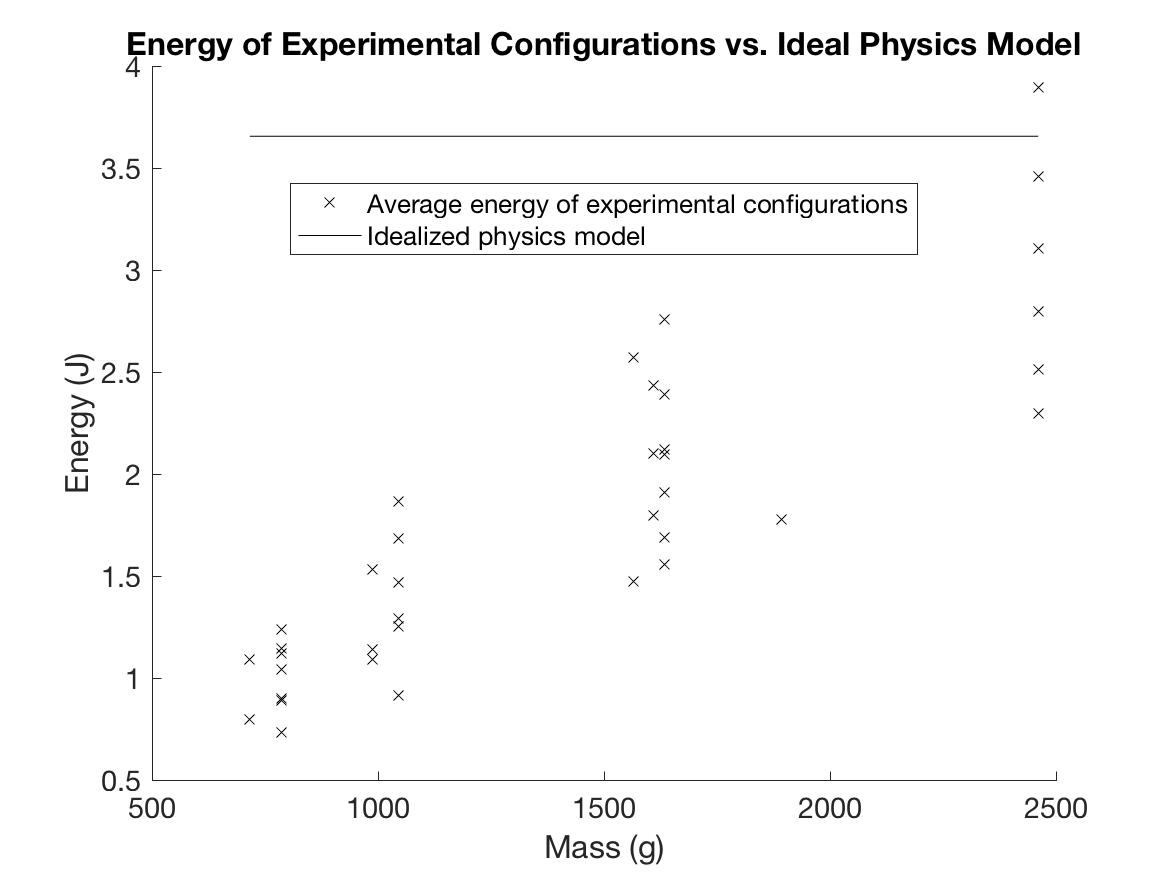
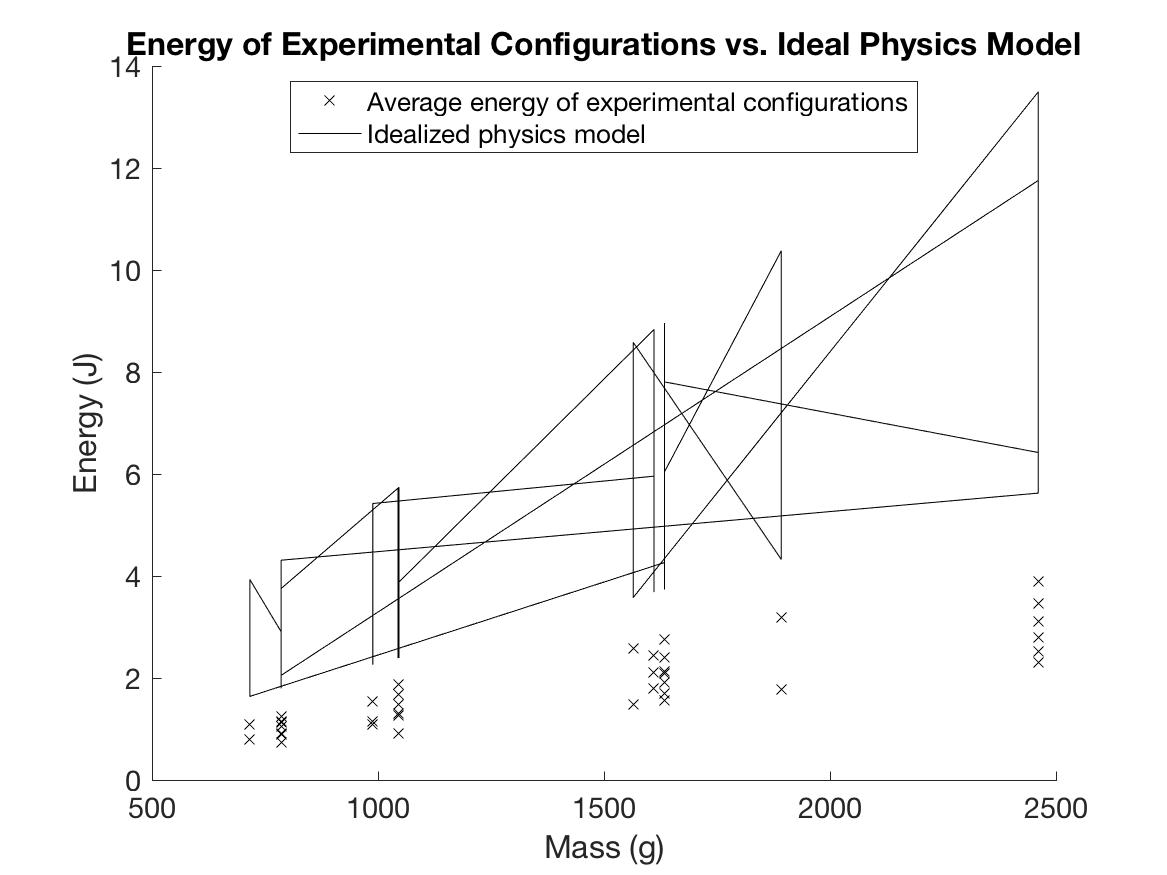
new linear regression function

diff --git a/RollCarCode/Data Processing Code/validateModelX.m b/RollCarCode/Data Processing Code/validateModelX.m
@@ -1,0 +1,33 @@
+function []=validateModelX(model_passes,model_x_max,model_a,model_b,model_t_end,tReal,xReal,m,rg,h)
+    passes=predict(model_passes,[m,rg,h]);
+    x_max=predict(model_x_max,[m,rg,h]);
+    
+    tTest=linspace(0,max(tReal),100);
+    xTest=[];
+    
+    if passes>=0
+        T=predict(model_t_end,[m,rg,h])/(passes+0.5);
+        f=1/T;
+        a1=predict(model_a{1},[m,rg,h]);
+        a2=predict(model_a{2},[m,rg,h]);
+        xTest=a1+((x_max/2)).*sin(2*pi*f*tTest+a2);
+    else
+        b1=predict(model_b{1},[m,rg,h]);
+        b2=predict(model_b{2},[m,rg,h]);
+        b3=predict(model_b{3},[m,rg,h]);
+        b4=predict(model_b{4},[m,rg,h]);
+        %{
+        b5=predict(model_b{5},[m,rg,h]);
+        b6=predict(model_b{6},[m,rg,h]);
+        %}
+        xTest=b1+b2*tTest+b3*tTest.^2+b4*tTest.^3;%+b4*tTest.^3+b5*tTest.^4+b6*tTest.^5;
+    end
+    
+    plot(tTest,xTest);
+    hold on;
+    plot(tReal,xReal);
+    xlabel('Time (s)');
+    ylabel('X Position (cm)');
+    legend('Simulation','Real');
+    hold off;
+end

diff --git a/RollCarCode/Data Processing Code/validateModelX_OBSOLETE.m b/RollCarCode/Data Processing Code/validateModelX_OBSOLETE.m
@@ -1,0 +1,26 @@
+function[]=validateModelX(model_x,model_t_end,model_x_max,m,rg,h,realData)
+    ind=[[realData.m]==m & [realData.r]==rg & convertHeightSR([realData.h])==h];
+    
+    tReal=realData(ind).t{1};
+    xReal=realData(ind).x{1};
+    
+    length_test=100;
+    
+    m_test=m*ones(length_test,1);
+    rg_test=rg*ones(length_test,1);
+    height_test=h*ones(length_test,1);
+    
+    t_end=predict(model_t_end,[m,rg,h]);
+    x_max=predict(model_x_max,[m,rg,h]);
+    
+    t_nondim=linspace(0,t_end,length_test)/t_end;
+    x_nondim_pred=predict(model_x,[m_test,rg_test,height_test,t_nondim']);
+    
+    t_sim=t_nondim*t_end;
+    x_pred=x_nondim_pred*x_max;
+    
+    plot(t_sim,x_pred);
+    hold on;
+    plot(tReal,xReal);
+    legend('Simulation','Real');
+end

diff --git a/RollCarCode/Data Processing Code/EnergyPlot.m b/RollCarCode/Data Processing Code/EnergyPlot.m
@@ -12,7 +12,7 @@ for m=1:length(configs)
     vx=configs(m).vx{1};
     v=sqrt(vy.^2+vx.^2);
     
-    E0=configs(m).m/1000*g*y(1)/100; % in J
+    E0=[E0 configs(m).m/1000*g*y(1)/100]; % in J
     E=configs(m).m/1000*g*y/100+1/2*configs(m).m/1000*(v/100).^2; % in J
     E_av(m)=mean(E);
 end
